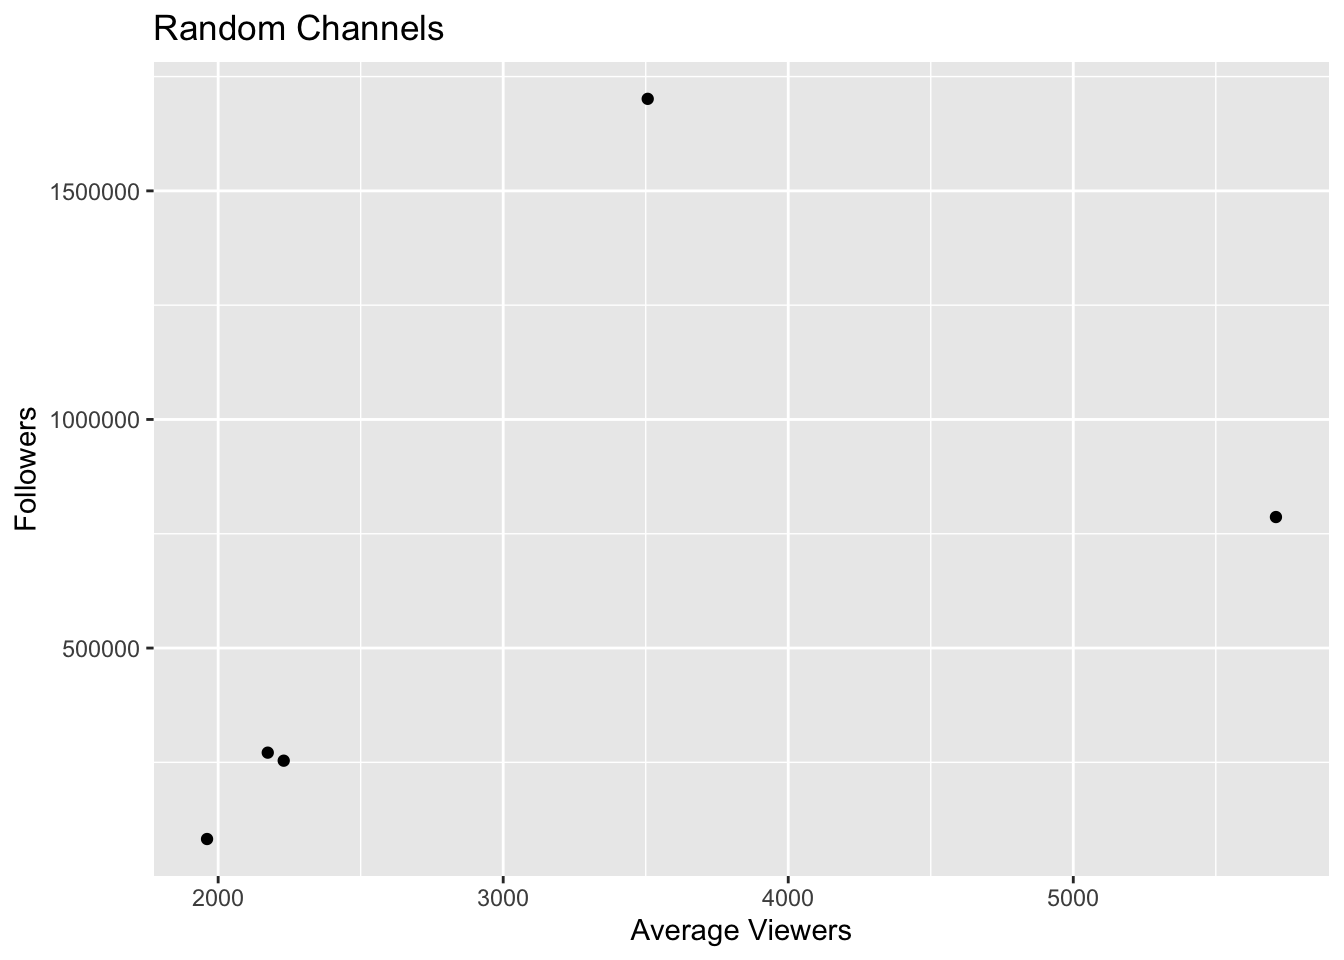
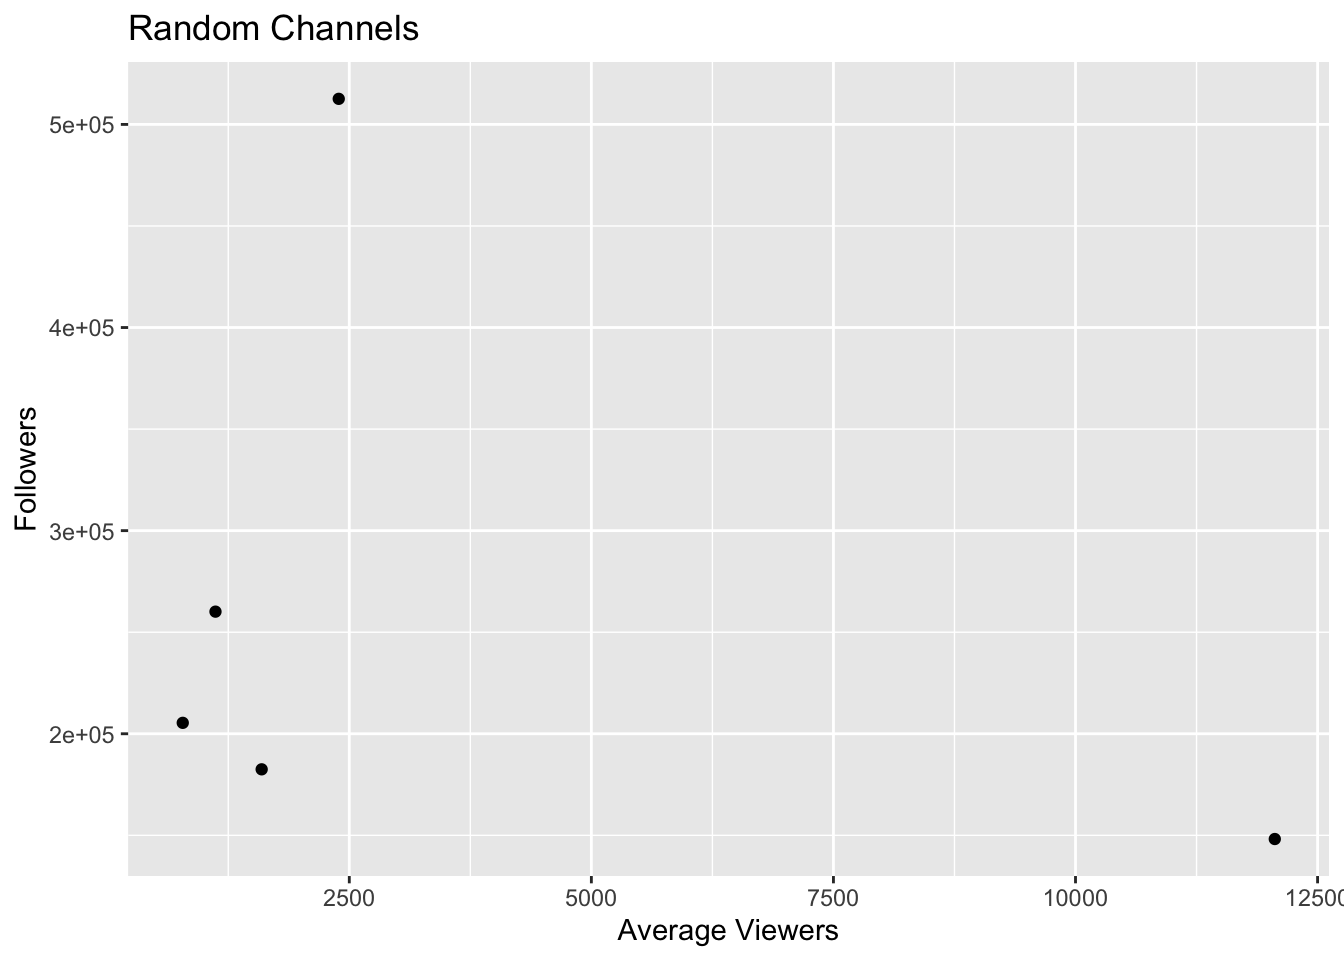
5

diff --git a/MD_HW5.html b/MD_HW5.html
@@ -158,13 +158,13 @@ Attaching package: 'janitor'</code></pre>
 <span id="cb10-3"><a href="#cb10-3" aria-hidden="true" tabindex="-1"></a>  <span class="fu">sample_n</span>(<span class="at">size =</span> <span class="dv">5</span>) </span></code><button title="Copy to Clipboard" class="code-copy-button"><i class="bi"></i></button></pre></div>
 <div class="cell-output cell-output-stdout">
 <pre><code># A tibble: 5 × 3
-  channel           average_viewers followers
-  &lt;chr&gt;                       &lt;dbl&gt;     &lt;dbl&gt;
-1 DreamHackDota2_RU           22356    203419
-2 tarzaned                     4159    388878
-3 Pieface23                    2149    238155
-4 AladdinTV                    1416    110211
-5 DanucD                       2045    546052</code></pre>
+  channel        average_viewers followers
+  &lt;chr&gt;                    &lt;dbl&gt;     &lt;dbl&gt;
+1 supertf                   2526    196136
+2 Yassuo                   10531   1878416
+3 BruceGrannec              3011    463188
+4 ElcanaldeJoaco            8673    810622
+5 DavyJones                 4111    955846</code></pre>
 </div>
 </div>
 <p>What do you notice?</p>
@@ -184,11 +184,11 @@ dplyr 1.1.0.
 <pre><code># A tibble: 5 × 2
   average_viewers followers
             &lt;dbl&gt;     &lt;dbl&gt;
-1            1196    324765
-2            1400    229586
-3            1759    151886
-4            6125    442493
-5            1782    236407</code></pre>
+1            7554    658658
+2            1560    122486
+3            1027    255595
+4           46459   1162746
+5            5573    672403</code></pre>
 </div>
 </div>
 <p>Describe the results in a few words. Does anything capture your attention?</p>
@@ -334,6 +334,21 @@ $ .std.resid    &lt;dbl&gt; 1.3420109, 0.8227954, 0.5389316, -0.6251793, 0.59536
 </section>
 <section id="question-5" class="level2">
 <h2 class="anchored" data-anchor-id="question-5">Question 5</h2>
+<div class="cell">
+<div class="sourceCode cell-code" id="cb27"><pre class="sourceCode r code-with-copy"><code class="sourceCode r"><span id="cb27-1"><a href="#cb27-1" aria-hidden="true" tabindex="-1"></a>fit3 <span class="ot">&lt;-</span> <span class="fu">lm</span>(average_viewers <span class="sc">~</span> language, <span class="at">data =</span> twitch_data)</span></code><button title="Copy to Clipboard" class="code-copy-button"><i class="bi"></i></button></pre></div>
+</div>
+<div class="cell">
+<div class="sourceCode cell-code" id="cb28"><pre class="sourceCode r code-with-copy"><code class="sourceCode r"><span id="cb28-1"><a href="#cb28-1" aria-hidden="true" tabindex="-1"></a>twitch_data <span class="ot">&lt;-</span> twitch_data <span class="sc">%&gt;%</span> </span>
+<span id="cb28-2"><a href="#cb28-2" aria-hidden="true" tabindex="-1"></a>  <span class="fu">mutate</span>(<span class="at">language =</span> <span class="fu">as.factor</span>(language), </span>
+<span id="cb28-3"><a href="#cb28-3" aria-hidden="true" tabindex="-1"></a>         <span class="at">language =</span> <span class="fu">relevel</span>(language, <span class="at">ref =</span> <span class="st">"English"</span>))</span></code><button title="Copy to Clipboard" class="code-copy-button"><i class="bi"></i></button></pre></div>
+</div>
+<div class="cell">
+<div class="sourceCode cell-code" id="cb29"><pre class="sourceCode r code-with-copy"><code class="sourceCode r"><span id="cb29-1"><a href="#cb29-1" aria-hidden="true" tabindex="-1"></a>twitch_data <span class="sc">|&gt;</span> <span class="fu">ggplot</span>(<span class="fu">aes</span>(<span class="at">x =</span> average_viewers, <span class="at">y =</span> language)) <span class="sc">+</span> <span class="fu">geom_jitter</span>(<span class="at">alpha =</span> <span class="fl">0.4</span>) <span class="sc">+</span> <span class="fu">geom_line</span>(<span class="fu">aes</span>(<span class="at">x =</span> average_viewers, <span class="at">y =</span> language), <span class="at">col =</span> <span class="st">"red"</span>) <span class="sc">+</span> <span class="fu">theme_minimal</span>()</span></code><button title="Copy to Clipboard" class="code-copy-button"><i class="bi"></i></button></pre></div>
+<div class="cell-output-display">
+<p><img src="MD_HW5_files/figure-html/unnamed-chunk-16-1.png" class="img-fluid" width="672"></p>
+</div>
+</div>
+<p>Now, fit your model. Your coefficients will tell you how many more (or fewer) average viewers are related to streaming in languages different than English. Interpret the results. How is my prediction doing?</p>
 </section>
 <section id="question-6" class="level2">
 <h2 class="anchored" data-anchor-id="question-6">Question 6</h2>
